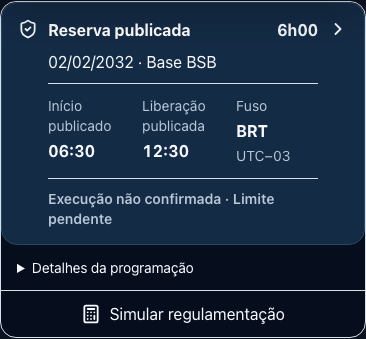
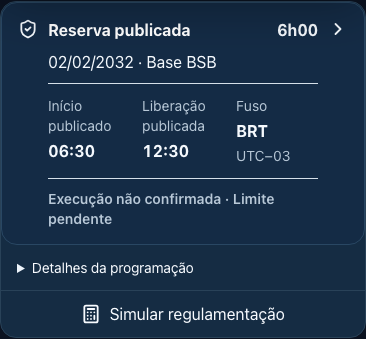
fix(ui): ensure duty details contrast and verify scrolled action access

Changed region(s): [[0.0, 0.0295, 1.0, 1.0], [0.0, 0.0, 0.0601, 0.059], [0.9617, 0.0, 0.9918, 0.0295]]

diff --git a/client/src/components/canonical-duty-card.css b/client/src/components/canonical-duty-card.css
@@ -1,4 +1,5 @@
-.cc-canonical-duty-tools{display:grid;min-width:0;border:1px solid var(--cz-border,#d5e0e9);border-radius:16px;background:var(--cz-card,#fff);color:var(--cz-text,#17354a);container-type:inline-size;overflow-wrap:anywhere}
+.cc-canonical-duty-tools{--cc-duty-surface:#152c43;--cc-duty-text:#edf4fb;--cc-duty-muted:#b4c3d4;--cc-duty-border:#294258;display:grid;min-width:0;border:1px solid var(--cc-duty-border);border-radius:16px;background:var(--cc-duty-surface);color:var(--cc-duty-text);container-type:inline-size;overflow-wrap:anywhere}
+html[data-crew-theme="light"] .cc-canonical-duty-tools{--cc-duty-surface:#f4f9fd;--cc-duty-text:#17354a;--cc-duty-muted:#536b7e;--cc-duty-border:#cbd5e1}
 .cc-canonical-duty-card{display:flex;width:100%;align-items:flex-start;gap:10px;text-align:left;min-height:44px;padding:16px;border:1px solid var(--cz-border,#d5e0e9);border-radius:16px;background:var(--cz-card,#fff);color:var(--cz-text,#17354a);font:inherit;line-height:1.4;white-space:normal}
 .cc-canonical-duty-tools>.cc-canonical-duty-card{border:0;border-radius:16px 16px 0 0;background:transparent}
 .cc-canonical-duty-card>.cc-canonical-duty-icon{width:20px;height:20px;min-width:20px;flex:0 0 20px;padding:0}
@@ -11,10 +12,11 @@
 .cc-canonical-duty-times>span{display:flex;flex-direction:column;gap:4px;min-width:0}
 .cc-canonical-duty-times b{font-variant-numeric:tabular-nums}
 .cc-canonical-duty-status{font-weight:600}
-.cc-canonical-duty-details{margin:0 16px;min-width:0;font-size:.875em;line-height:1.5;color:var(--cz-text-muted,#536b7e)}
-.cc-canonical-duty-details summary{padding-block:12px;min-height:44px;cursor:pointer;color:var(--cz-text,#17354a)}
+.cc-canonical-duty-details{margin:0 16px;min-width:0;font-size:.875em;line-height:1.5;background:var(--cc-duty-surface);color:var(--cc-duty-muted)}
+.cc-canonical-duty-details summary{padding-block:12px;min-height:44px;cursor:pointer;color:var(--cc-duty-text)}
+.cc-canonical-duty-details summary::marker{color:var(--cc-duty-text)}
 .cc-canonical-duty-details p{margin:0 0 10px;overflow-wrap:anywhere}
-.cz-app .cc-canonical-duty-tools>button.cc-duty-calculator-shortcut{display:flex!important;align-items:center;justify-content:center;gap:8px;width:100%!important;min-width:0!important;height:auto!important;min-height:44px!important;padding:12px 16px!important;border:0!important;border-top:1px solid var(--cz-border,#d5e0e9)!important;border-radius:0 0 16px 16px!important;background:transparent!important;color:inherit!important;white-space:normal!important;font:inherit;line-height:1.4;cursor:pointer}
+.cz-app .cc-canonical-duty-tools>button.cc-duty-calculator-shortcut{display:flex!important;align-items:center;justify-content:center;gap:8px;width:100%!important;min-width:0!important;height:auto!important;min-height:44px!important;padding:12px 16px!important;border:0!important;border-top:1px solid var(--cc-duty-border)!important;border-radius:0 0 16px 16px!important;background:transparent!important;color:inherit!important;white-space:normal!important;font:inherit;line-height:1.4;cursor:pointer}
 .cc-duty-calculator-shortcut svg{width:20px;height:20px;flex:0 0 20px}
 .cc-canonical-duty-card:focus-visible,.cc-canonical-duty-details summary:focus-visible,.cc-duty-calculator-shortcut:focus-visible{outline:3px solid var(--cz-accent,#167aa5);outline-offset:-3px}
 @container (max-width:24rem){.cc-canonical-duty-card{display:grid;grid-template-columns:minmax(0,1fr) 20px;gap:8px}.cc-canonical-duty-card>.cc-canonical-duty-icon:first-child{display:none}.cc-canonical-duty-card>.cc-canonical-duty-copy{width:100%}}

diff --git a/docs/reviews/home-flight-duty-layout-20261022.md b/docs/reviews/home-flight-duty-layout-20261022.md
@@ -34,3 +34,27 @@ A fonte200% permite crescimento vertical sem cortar texto. Não houve validaçã
 ![Próximo voo:320px, claro,200%](home-flight-duty-layout-20261022/320-light-200-flight.png)
 
 ![Reserva:320px, claro,200%](home-flight-duty-layout-20261022/320-light-200-reserve.png)
+
+
+## Achado da revisão independente: contraste e prova de acesso
+
+O reviewer encontrou baixo contraste nos novos detalhes em320px/claro/200%. Confirmado: o wrapper usava a variável genérica de superfície e os detalhes herdavam fundo escuro com texto escuro no tema claro. A correção mantém superfície, texto e marcador próprios por tema no escopo de cc-canonical-duty-tools. O footer não foi alterado.
+
+Medição na Home compilada,320px/200%:
+
+| Tema | Fundo dos detalhes | Texto | Contraste texto/marcador/motivos/calculadora |
+| --- | --- | --- | --- |
+| Claro | rgb(244,249,253) | rgb(6,22,44) |17.10 /12.05 /5.12 /12.80 |
+| Escuro | rgb(21,44,67) | rgb(248,251,255) |13.73 /12.85 /13.73 /13.73 |
+
+O helper scripts/fixtures/duty-card-visual-checks.cjs exige4.5:1 para texto/motivos/calculadora e3:1 para marcador. As duas suítes de layout exercitam o helper nos dois temas e tamanhos100/200%. A suíte da Home também usa elementFromPoint para verificar que os controles focados não estão cobertos. Em320px/200%, após rolagem, a calculadora ocupa y305.625–409px e o footer começa em676px; foco3px, alvo103.375px, sem obstrução. Enter/Space/Tab continuam testados.
+
+A imagem de reserva320px/200% acima mostra agora o card completo em fixture isolada com CSS de produção, evitando tratar um recorte coberto pelo footer como prova de visibilidade. A prova adicional abaixo vem da Home real, com Settings200%, após rolagem até a ação:
+
+![Home real: calculadora acessível acima do footer,320px claro200%](home-flight-duty-layout-20261022/320-light-200-reserve-action-viewport.png)
+
+Revalidação local após o achado: TypeScript e build canônicos PASS;6 casos do componente,32 combinações da Home e128 casos de layout/estado PASS. O candidato foi revalidado localmente e autorizado para atualização da mesma draft, sem force. Revisão independente do novo diff remoto permanece pendente; não é aprovação integral.
+
+CI do HEAD publicado a6d3ff2daa8465478af43735e4c0659b80162184: o gate Web falhou no npm audit por DOMPurify<=3.4.16 herdado de main; a correção pertence à#1201 e permanece preservada. No HEAD inicial,15 workflows passaram,1 foi pulado e o Web falhou no audit. A atualização da draft foi autorizada; a CI do novo HEAD deve ser conferida separadamente. Não houve merge/deploy nem alteração de gates.
+
+Revalidação antes da atualização da draft: main e a ref da PR permaneceram em6269b510 e a6d3ff2d. As listas reais de arquivos dos84 outros PRs abertos foram novamente conferidas; apenas a composição histórica#1032 sobrepõe estes paths. Nenhum arquivo de CrewCierge,#1198,#919,#1200 ou#1201 foi alterado.
